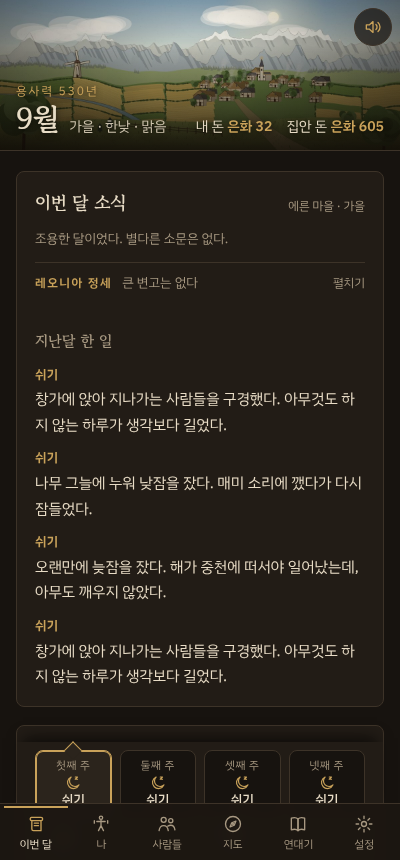
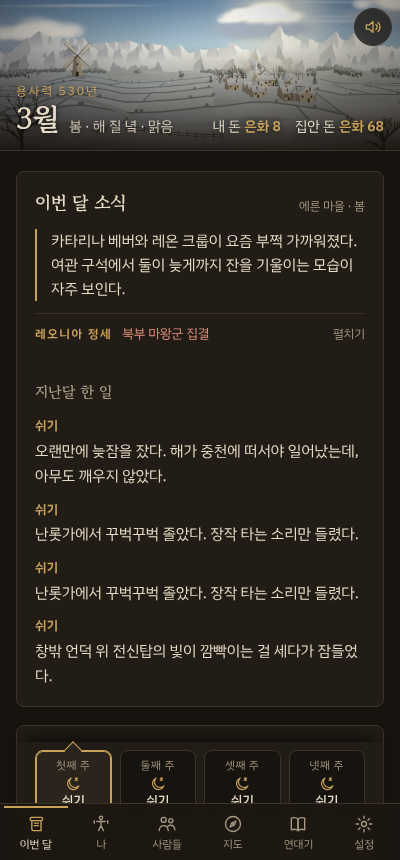
버그 패치: 감옥과 길 위가 겹칠 때 멈춤, 상황이 바뀐 뒤 뜨는 장면 오류, 깨 보기 점검 도구
Claude-Session: https://claude.ai/code/session_01Qt87VMEQ5LQWgc3497sT43

diff --git a/tools/breaktest.js b/tools/breaktest.js
@@ -1,0 +1,262 @@
+import './lsshim.js';
+import '../src/content.js';
+// 깨 보기 점검 (관계·범죄·다른 나라·종족): 겹치는 상황을 일부러 만들어 멈춤·오류·undefined·NaN을 찾는다.
+//  - 같은 달에 같은 행동을 여러 칸, 죽었거나 없는 사람을 대상으로 고르기
+//  - 장면이 뜨기 전·고르기 전에 상황 바꾸기 (대상이 죽음, 감옥, 길 위, 다른 나라로 옮겨짐, 돈 0)
+//  - 저장 → 불러오기, 예전 저장 모양(새 상태 필드가 없는 저장) 불러오기
+//  - 대 잇기 뒤에도 이어서
+// node tools/breaktest.js [판 수] [-v]
+import { newGame, endMonth, availableActions, slotsFor, playerAge, rngOf, me, knownPeople } from '../src/game.js';
+import { resolveEvent } from '../src/events.js';
+import { L, showScene } from '../src/adventure/core.js';
+import { FAMILIES } from '../src/data.js';
+import { PLACES } from '../src/places.js';
+import { crimeState, jail, CRIMES } from '../src/crime.js';
+import { autosave, load } from '../src/save.js';
+import { makeRng } from '../src/rng.js';
+import { marry } from '../src/relations.js';
+import { EVENTS } from '../src/events/core.js';
+import { run as runHooks } from '../src/hooks.js';
+import { GANGS } from '../src/underworld/gangs.js';
+import { living, ageYears } from '../src/npc.js';
+
+const RUNS = Number(process.argv[2]) || 30;
+const verbose = process.argv.includes('-v');
+const bad = (t) => typeof t === 'string' && /undefined|NaN|\[object|null|=>/.test(t);
+const problems = new Map();
+const report = (key, detail) => {
+  const k = key.slice(0, 160);
+  if (!problems.has(k)) problems.set(k, { n: 0, detail });
+  problems.get(k).n++;
+};
+const stackKey = (e) => `${e.message} @ ${(e.stack ?? '').split('\n').slice(1, 3).map((s) => s.trim().replace(/^at /, '').replace(/\(file:\/\/.*\/fantasy-life\//, '(')).join(' < ')}`;
+const scenes = {};
+const perturbs = {};
+
+// 예전 저장 모양: 뒤에 생긴 상태를 지운다
+const OLD_FIELDS = ['realms', 'races', 'crime', 'era', 'crisis', 'history'];
+function oldShape(g) {
+  for (const f of OLD_FIELDS) delete g[f];
+  const life = g.life ?? g.adventure;
+  if (life) { delete life.party; delete life.childhood; }
+  for (const p of g.people) { delete p.race; delete p.beast; delete p.memories; delete p.bond; }
+  return g;
+}
+
+const PLACE_IDS = Object.keys(PLACES).filter((p) => !PLACES[p].hidden);
+function perturb(g, rng, where) {
+  const life = L(g);
+  const kinds = ['kill', 'jail', 'travel', 'move', 'broke', 'unjail', 'age'];
+  const k = rng.pick(kinds);
+  perturbs[`${where}:${k}`] = (perturbs[`${where}:${k}`] ?? 0) + 1;
+  if (k === 'kill') {
+    const ps = knownPeople(g).filter((p) => p.alive);
+    const s = life.scene ?? life.queue[0];
+    // 장면이 붙잡고 있는 사람이 있으면 그 사람부터
+    const ids = s ? Object.values(s).filter((v) => typeof v === 'number') : [];
+    const v = ids.map((id) => g.people.find((p) => p.id === id && p.alive && !p.isPlayer)).find(Boolean) ?? rng.pick(ps);
+    if (v) { v.alive = false; v.deathYear = g.date.year; }
+  } else if (k === 'jail') { if (!crimeState(g).jailed) jail(g, rng.int(1, 6)); }
+  else if (k === 'unjail') { crimeState(g).jailed = null; }
+  else if (k === 'travel') { if (!life.travel && !crimeState(g).jailed) life.travel = { to: rng.pick(PLACE_IDS), left: rng.int(1, 3), from: life.place }; }
+  else if (k === 'move') { life.travel = null; life.place = rng.pick(PLACE_IDS); }
+  else if (k === 'broke') { g.player.money = 0; }
+  else if (k === 'age') { me(g).ageMonths += rng.int(1, 8) * 12; }
+}
+
+function check(g, where) {
+  const pe = g.pendingEvent;
+  if (pe) {
+    if (bad(pe.title) || bad(pe.text)) report(`bad scene text ${L(g).scene?.kind ?? pe.id}`, `${pe.title} | ${pe.text}`);
+    if (!Array.isArray(pe.choices) || !pe.choices.length) report(`empty choices ${L(g).scene?.kind ?? pe.id}`, where);
+    else for (const c of pe.choices) if (bad(c) || !c) report(`bad choice ${L(g).scene?.kind ?? pe.id}`, String(c));
+  }
+  const p = g.player;
+  for (const k of ['money', 'fatigue', 'stress', 'mana']) if (p[k] != null && !Number.isFinite(p[k])) report(`NaN player.${k}`, where);
+  for (const x of g.people) {
+    if (!Number.isFinite(x.affection ?? 0)) report('NaN affection', `${x.name} ${where}`);
+    if (!Number.isFinite(x.ageMonths)) report('NaN ageMonths', `${x.name} ${where}`);
+  }
+}
+
+for (let run = 0; run < RUNS; run++) {
+  const fam = FAMILIES[run % FAMILIES.length].id;
+  const seed = (Number(process.env.SEED) || 51000) + run * 7;
+  let g = newGame({ name: run % 3 ? '시험' : '아주 길고 긴 이름의 사람', sex: run % 2 ? 'm' : 'f', familyId: fam, mode: run % 2 ? 'free' : 'once', seed });
+  const side = makeRng({ s: seed * 31 + 5 });
+  let lives = 0;
+  for (let m = 0; m < 12 * 160 && !g.over; m++) {
+    const where = `run${run} ${fam} m${m} age${playerAge(g)} ${L(g).place}`;
+    try {
+      const acts = availableActions(g);
+      const slots = slotsFor(g);
+      if (slots > 0 && !acts.length) { report('no actions', `${where} travel=${JSON.stringify(L(g).travel)} jailed=${JSON.stringify(crimeState(g).jailed)}`); L(g).travel = null; crimeState(g).jailed = null; continue; }
+      const choices = [];
+      const same = side.chance(0.3) ? side.pick(acts) : null;
+      for (let i = 0; i < slots; i++) {
+        const a = same ?? side.pick(acts);
+        const c = { id: a.id };
+        if (a.needsTarget) {
+          const ps = knownPeople(g);
+          const r = side.next();
+          c.target = r < 0.1 ? 999999 : r < 0.2 ? g.player.id : (side.pick(ps)?.id ?? 999999);
+        }
+        choices.push(c);
+      }
+      // 대 잇기를 보려면 아이가 있어야 한다: 다른 종족과도 혼인시킨다
+      if (playerAge(g) >= 20 && !me(g).spouseId && side.chance(0.08)) {
+        const sp = living(g).find((p) => !p.isPlayer && !p.spouseId && p.sex !== g.player.sex && ageYears(p) >= 17 && ageYears(p) <= playerAge(g) + 10 && !g.player.familyIds.includes(p.id));
+        if (sp) { try { marry(g, sp); } catch (e) { report(stackKey(e), `marry ${where}`); } }
+      }
+      if (side.chance(0.08)) perturb(g, side, 'before');
+      endMonth(g, choices);
+      for (const r of g.lastResults ?? []) if (bad(r.text) || bad(r.name)) report(`bad result ${r.name}`, r.text);
+      for (const n of g.news ?? []) if (bad(n.text)) report('bad news', n.text);
+      check(g, where);
+      for (let k = 0; k < 6 && g.pendingEvent; k++) {
+        const kind = L(g).scene?.kind ?? g.pendingEvent.id;
+        scenes[kind] = (scenes[kind] ?? 0) + 1;
+        if (side.chance(0.1)) perturb(g, side, 'scene');
+        const idx = kind === 'heir' ? 0 : side.int(0, g.pendingEvent.choices.length - 1);
+        const out = resolveEvent(g, rngOf(g), idx);
+        if (bad(typeof out === 'string' ? out : '')) report(`bad outcome ${kind}`, String(out));
+        if (kind === 'heir') lives++;
+        check(g, where);
+      }
+      // 줄 선 장면을 상황을 바꾼 뒤 억지로 띄워 본다
+      const q = L(g).queue;
+      if (q.length && !g.pendingEvent && side.chance(0.3)) {
+        perturb(g, side, 'queued');
+        const s = q.shift();
+        if (showScene(g, s)) check(g, `${where} forced ${s.kind}`);
+      }
+      if (m % 37 === 36) {
+        autosave(g);
+        g = load('auto');
+        check(g, `${where} reload`);
+      }
+      if (m === 300 && run % 3 === 0) {
+        const raw = oldShape(JSON.parse(JSON.stringify(g)));
+        localStorage.setItem('fantasy-life:old', JSON.stringify(raw));
+        g = load('old');
+        check(g, `${where} old save`);
+      }
+    } catch (e) {
+      report(stackKey(e), where);
+      if (verbose) console.log(e);
+      // 같은 상태로 다시 터지지 않게 장면을 비우고 넘어간다
+      g.pendingEvent = null;
+      if (L(g)) { L(g).scene = null; L(g).queue = []; }
+    }
+  }
+  if (verbose) console.log(`run ${run} ${fam} 끝: 나이 ${playerAge(g)} 대 ${lives} 해 ${g.date.year} 죽음 ${me(g).deathCause ?? me(g).cause ?? ''} over=${g.over}`);
+}
+
+// 내 장면(관계·범죄·다른 나라·종족)을 이상한 상황에서 억지로 띄우고 선택지를 하나씩 고른다
+const MY_SCENES = ['arrest', 'witness_blackmail', 'thugs', 'bounty_hunters', 'gang_offer', 'gang_contract', 'gang_turf', 'gang_takeover', 'gang_rescue',
+  'border', 'caught_illegal', 'realm_office', 'realm_inquisitor', 'realm_spy', 'realm_slaves', 'realm_raid', 'realm_forbidden', 'city_story', 'race_slight', 'farewell', 'drift'];
+const STATES = ['plain', 'jailed', 'travel', 'broke', 'dead', 'old', 'child', 'heir'];
+const PLACES_TRY = ['ern', 'harfen', 'leocast', 'eisen', 'solaris', 'serenia', 'barka', 'graubel', 'silverleaf', 'hammer', 'fur', 'estella'].filter((p) => PLACES[p]);
+let forced = 0;
+for (const [si, kind] of MY_SCENES.entries()) {
+  for (const [sti, st] of STATES.entries()) {
+    for (let choice = 0; choice < 8; choice++) {
+      const seed = 70000 + si * 101 + sti * 13 + choice;
+      const famId = FAMILIES[(si + sti + choice) % FAMILIES.length].id;
+      const where = `${kind} state=${st} choice=${choice} ${famId}`;
+      let g;
+      try {
+        g = newGame({ name: '깨기', sex: choice % 2 ? 'm' : 'f', familyId: famId, mode: 'free', seed });
+        me(g).ageMonths = (st === 'child' ? 9 : 26) * 12;
+        const side = makeRng({ s: seed });
+        // 몇 달 살려서 아는 사람과 상태를 만든다
+        for (let m = 0; m < 6; m++) { endMonth(g, Array(slotsFor(g)).fill(0).map(() => ({ id: side.pick(availableActions(g).filter((a) => !a.needsTarget)).id }))); for (let k = 0; k < 4 && g.pendingEvent; k++) resolveEvent(g, rngOf(g), 0); }
+        L(g).place = side.pick(PLACES_TRY); L(g).travel = null;
+        const known = knownPeople(g).filter((p) => p.alive);
+        const v = side.pick(known) ?? g.people.find((p) => !p.isPlayer && p.alive);
+        const gangId = side.pick(Object.keys(GANGS));
+        if (st === 'jailed') jail(g, 3);
+        if (st === 'travel') L(g).travel = { to: 'harfen', left: 2, from: L(g).place };
+        if (st === 'broke') g.player.money = 0;
+        if (st === 'dead' && v) v.alive = false;
+        if (st === 'old') { localStorage.setItem('fantasy-life:old', JSON.stringify(oldShape(JSON.parse(JSON.stringify(g))))); g = load('old'); }
+        if (st === 'heir') { me(g).childIds = []; }
+        const gangScene = kind.startsWith('gang') && kind !== 'gang_contract';
+        const data = { id: gangScene ? gangId : st === 'dead' ? v?.id : side.chance(0.2) ? 999999 : v?.id, target: v?.id, pay: 40, crime: side.pick(Object.keys(CRIMES)), why: side.pick(['gang', 'blackmail']), gang: gangId,
+          total: 50, to: side.pick(['valhart', 'holy', 'serenia', 'free', 'march', 'elf', 'dwarf', 'beast', 'leonia']), back: side.pick(['ern', 'harfen', undefined]), place: side.pick(['eisen', 'solaris', 'serenia', 'barka', 'graubel', 'silverleaf', 'hammer', 'fur']), step: side.int(0, 1), line: side.int(0, 9), hunter: side.chance(0.3), n: 1 };
+        L(g).queue = []; L(g).scene = null; g.pendingEvent = null;
+        if (!showScene(g, { kind, ...data })) continue;
+        forced++;
+        check(g, where);
+        if (choice >= g.pendingEvent.choices.length) { L(g).scene = null; g.pendingEvent = null; continue; }
+        const out = resolveEvent(g, rngOf(g), choice);
+        if (bad(typeof out === 'string' ? out : '')) report(`bad outcome ${kind}`, `${where}: ${out}`);
+        // 그 뒤 몇 달 더 굴려 본다
+        for (let m = 0; m < 3 && !g.over; m++) {
+          const acts = availableActions(g);
+          if (slotsFor(g) > 0 && !acts.length) { report(`no actions after ${kind}`, where); break; }
+          endMonth(g, Array(slotsFor(g)).fill(0).map(() => ({ id: acts[0].id })));
+          for (let k = 0; k < 4 && g.pendingEvent; k++) { check(g, where); resolveEvent(g, rngOf(g), 0); }
+        }
+      } catch (e) { report(stackKey(e), where); if (verbose) console.log(e); }
+    }
+  }
+}
+console.log('억지로 띄운 장면:', forced);
+
+// 관계 사건: 사건이 뜬 뒤 고르기 전에 그 사람이 죽거나 사라지거나, 저장을 다시 불러와도 견디나
+let relForced = 0;
+const MY_EVENTS = EVENTS.filter((e) => /^(talk_|rel_)/.test(e.id));
+for (let run = 0; run < 40; run++) {
+  const g0 = newGame({ name: '관계', sex: run % 2 ? 'm' : 'f', familyId: FAMILIES[run % FAMILIES.length].id, mode: 'free', seed: 81000 + run });
+  const side = makeRng({ s: 81000 + run });
+  const ageTo = [8, 14, 19, 25, 34, 50][run % 6];
+  try {
+    while (playerAge(g0) < ageTo && !g0.over) {
+      endMonth(g0, Array(slotsFor(g0)).fill(0).map(() => { const a = side.pick(availableActions(g0)); return { id: a.id, target: knownPeople(g0)[0]?.id }; }));
+      for (let k = 0; k < 4 && g0.pendingEvent; k++) resolveEvent(g0, rngOf(g0), 0);
+    }
+  } catch (e) { report(stackKey(e), `rel grow ${run}`); continue; }
+  if (g0.over) continue;
+  const snap = JSON.stringify(g0);
+  for (const e of MY_EVENTS) {
+    for (const mode of ['plain', 'kill', 'vanish', 'reload']) {
+      const g = JSON.parse(snap);
+      runHooks('migrate', g);
+      const where = `${e.id} ${mode} run${run} age${playerAge(g)}`;
+      try {
+        if (e.id.startsWith('talk_')) {
+          const kind = e.id.slice(5);
+          const cands = knownPeople(g).filter((p) => p.alive && !p.away);
+          const p = kind === 'spouse' ? g.people.find((x) => x.id === me(g).spouseId) : side.pick(cands);
+          if (p) { g.relations ??= {}; g.relations.talk = { kind, id: p.id, at: g.date.year * 12 + g.date.month - 1 }; }
+        }
+        let ok = false;
+        try { ok = !!e.cond(g); } catch { ok = false; }
+        if (!ok) continue;
+        const ctx = e.prepare ? e.prepare(g, rngOf(g)) ?? {} : {};
+        const shown = e.choices.map((c, i) => ({ c, i })).filter(({ c }) => !c.show || c.show(g, ctx));
+        g.pendingEvent = { id: e.id, title: e.title, text: e.text(g, ctx), choices: shown.map(({ c }) => (typeof c.label === 'function' ? c.label(g, ctx) : c.label)), choiceIdx: shown.map(({ i }) => i), ctx };
+        relForced++;
+        check(g, where);
+        const ids = [...Object.values(ctx).filter((v) => typeof v === 'number'), ...knownPeople(g).map((p) => p.id)];
+        if (mode === 'kill') for (const id of ids.slice(0, 6)) { const p = g.people.find((x) => x.id === id && !x.isPlayer); if (p) { p.alive = false; } }
+        if (mode === 'vanish') g.people = g.people.filter((x) => x.isPlayer || !ids.slice(0, 6).includes(x.id));
+        let gg = g;
+        if (mode === 'reload') { localStorage.setItem('fantasy-life:rel', JSON.stringify(g)); gg = load('rel'); }
+        const idx = side.int(0, gg.pendingEvent.choices.length - 1);
+        const out = resolveEvent(gg, rngOf(gg), idx);
+        if (bad(typeof out === 'string' ? out : '')) report(`bad outcome ${e.id}`, `${where}: ${out}`);
+        endMonth(gg, Array(slotsFor(gg)).fill(0).map(() => ({ id: availableActions(gg)[0].id })));
+        check(gg, where);
+      } catch (err) { report(stackKey(err), where); if (verbose) console.log(err); }
+    }
+  }
+}
+console.log('관계 사건 억지로:', relForced);
+console.log('흔든 것:', JSON.stringify(perturbs));
+console.log('장면 수:', Object.keys(scenes).length);
+if (!problems.size) { console.log('breaktest: 통과'); process.exit(0); }
+for (const [k, v] of [...problems].sort((a, b) => b[1].n - a[1].n)) console.log(`(${v.n}) ${k}\n     ${String(v.detail).slice(0, 220)}`);
+console.log(`breaktest: 문제 ${problems.size}가지`);
+process.exit(1);

diff --git a/src/races/index.js b/src/races/index.js
@@ -261,7 +261,7 @@ defineScene('farewell', {
   text: (g, s) => {
     const p = byId(g, s.id);
     const meP = me(g);
-    const lines = [`${J(fullName(p), '이/가')} ${ageYears(p)}살로 세상을 떠났다.`];
+    const lines = [p ? `${J(fullName(p), '이/가')} ${ageYears(p)}살로 세상을 떠났다.` : '오래 알던 사람이 세상을 떠났다.'];
     if (s.n === 1) lines.push(`처음 만났을 때 그는 젊었다. 장례식에서 거울처럼 맑은 물에 비친 내 얼굴은 그때와 거의 같았다. 나는 ${ageYears(meP)}살이고, 몸은 아직 ${bodyAge(meP)}살이다.`);
     else if (s.n < 6) lines.push(`벌써 ${s.n}번째다. 장례 절차를 이제는 사제보다 내가 더 잘 안다.`);
     else lines.push(`세는 것을 그만둔 지 오래다. 마을에서 내 어린 시절을 기억하는 사람은 이제 없다.`);
@@ -279,7 +279,7 @@ defineScene('farewell', {
     if (key === 'stay') { stress(g, 6); const w = gainStat(g, 'wil', 0.8); return `사흘 밤을 무덤 곁에서 보냈다. 인간의 무덤은 금방 풀에 덮인다. 그래서 더 오래 앉아 있었다.${gains([up('의지', w)])}`; }
     if (key === 'write') {
       const k = gainSkill(g, 'letters', 1.5, 'int');
-      chron(g, `${g.player.name}, 먼저 간 벗 ${fullName(p)}의 이야기를 글로 남기다.`);
+      chron(g, `${g.player.name}, 먼저 간 벗${p ? ` ${fullName(p)}` : ''}의 이야기를 글로 남기다.`);
       return `밤새 그가 했던 말과 웃던 얼굴을 적었다. 백 년 뒤에도 누군가는 읽을 것이다. 나는 그때도 살아 있을 것이고.${gains([up('글과 학문', k)])}`;
     }
     if (key === 'aloof') { R.aloof = true; stress(g, -10); return '마음 한쪽의 문을 닫았다. 덜 아플 것이다. 대신 덜 따뜻할 것이다. 엘프들이 왜 그렇게 차가운지 이제 조금 알 것 같았다.'; }

diff --git a/src/realms/index.js b/src/realms/index.js
@@ -328,7 +328,7 @@ HOOKS.afterMonth.push((g, rng) => {
 defineScene('caught_illegal', {
   title: () => '밀입국자',
   text: (g) => `${REALMS[currentRealm(g)].law.watch ?? '경비대'}의 손이 어깨에 얹혔다. "얼굴이 낯익은데. 쫓겨난 놈이 왜 아직 여기 있지?"`,
-  choices: () => [{ label: '순순히 따라간다', key: 'go' }, { label: '달아난다', key: 'run' }],
+  choices: (g) => (REALMS[currentRealm(g)] && RS(g).illegal[currentRealm(g)] && !isJailed(g) ? [{ label: '순순히 따라간다', key: 'go' }, { label: '달아난다', key: 'run' }] : []),
   resolve(g, rng, s, key) {
     const R = RS(g);
     const realm = currentRealm(g);
@@ -408,6 +408,7 @@ defineScene('realm_office', {
     const r = REALMS[realm];
     const R = RS(g);
     const out = [];
+    if (!r || traveling(g) || isJailed(g)) return out; // 관청이 없는 땅이거나 길 위·감옥
     if (!naturalizeBlock(g, realm)) out.push({ label: `귀화를 신청한다 (은화 ${r.naturalize.fee}닢)`, key: 'naturalize' });
     if (r.naturalize.buy && !bannedLeft(g, realm)) out.push({ label: `시민권을 산다 (은화 ${r.naturalize.buy}닢)`, key: 'buy' });
     if (homeTrouble(g) && R.asylum !== realm) out.push({ label: `망명을 청한다 (${realmShort(R.citizen)}에 쫓기는 몸이다)`, key: 'asylum' });
@@ -418,7 +419,7 @@ defineScene('realm_office', {
     const realm = currentRealm(g);
     const r = REALMS[realm];
     const R = RS(g);
-    if (key === 'leave') return '서류 더미와 긴 줄을 보고 발길을 돌렸다.';
+    if (key === 'leave' || !r) return '서류 더미와 긴 줄을 보고 발길을 돌렸다.';
     if (key === 'naturalize') {
       if (naturalizeBlock(g, realm)) return '서기가 서류를 밀어냈다. 조건이 모자랐다.';
       g.player.money -= r.naturalize.fee;

diff --git a/src/realms/life.js b/src/realms/life.js
@@ -11,6 +11,7 @@ import { FOES } from '../adventure/combat.js';
 import { queueFight } from '../adventure/fight.js';
 import { registerJob, WORK, takeJob } from '../jobs.js';
 import { remember } from '../relations.js';
+import { makeRng } from '../rng.js';
 import { isJailed, jail, addNotoriety, craftOf, reportCrime } from '../crime.js';
 import { REALMS, realmOf, realmState, realmPersonName, meetLocal, localBy, treatmentIn } from './index.js';
 import { setRace, raceOf, playerRace } from '../races/index.js';
@@ -23,6 +24,7 @@ const here = (g) => L(g).place;
 // game.realms.stories[장소] = { step, at(다음 장면이 올 수 있는 달), done, npc(사람 id), mark(갈래 표시) }
 const S = (g) => (RS(g).stories ??= {});
 function storyNpc(g, rng, place) {
+  rng ??= makeRng({ s: ((g.rngState?.s ?? 1) * 2654435761 + place.length * 977) >>> 0 }); // 화면이 글을 먼저 그릴 때도 같은 사람이 나오게
   const st = S(g)[place] ??= { step: 0, at: 0 };
   let p = st.npc != null ? byId(g, st.npc) : null;
   if (p) return p;
@@ -63,7 +65,8 @@ HOOKS.afterMonth.push((g, rng) => {
 defineScene('city_story', {
   title: (g, s) => STORIES[s.place].steps[s.step].title,
   text: (g, s) => STORIES[s.place].steps[s.step].text(g, storyNpc(g, null, s.place)),
-  choices: (g, s) => STORIES[s.place].steps[s.step].choices.filter((c) => !c.when || c.when(g, storyNpc(g, null, s.place))),
+  // 그 고장을 떠났으면 장면을 미룬다 (돌아오면 다시 온다)
+  choices: (g, s) => (here(g) !== s.place || !STORIES[s.place]?.steps[s.step] ? [] : STORIES[s.place].steps[s.step].choices).filter((c) => !c.when || c.when(g, storyNpc(g, null, s.place))),
   resolve(g, rng, s, key) {
     const st = S(g)[s.place];
     const p = storyNpc(g, rng, s.place);

diff --git a/src/places.js b/src/places.js
@@ -151,7 +151,8 @@ const ERN_ONLY = new Set(['play', 'help_home', 'study', 'sword_father', 'sword_g
 const ON_ROAD = new Set(['rest', 'meditate', 'train_body', 'on_road']);
 HOOKS.actionFilter.push((g, a) => {
   const life = L(g);
-  if (life.travel) return ON_ROAD.has(a.id);
+  // 감옥에 갇혔으면 길은 끝났다 (감옥 행동은 crime.js가 거른다)
+  if (life.travel && !g.crime?.jailed) return ON_ROAD.has(a.id);
   if (a.place && !a.place.includes(life.place)) return false;
   if (ERN_ONLY.has(a.id) && life.place !== 'ern') return false;
   if (a.id === 'help_home' && life.home !== 'family') return false;
@@ -240,6 +241,7 @@ ACTIONS.push({
 // 매달: 길 위의 진행, 도착, 노숙/집세
 HOOKS.afterActions.push((g, rng, results) => {
   const life = L(g);
+  if (life.travel && g.crime?.jailed) life.travel = null; // 길 떠나기 전에 붙잡혔다
   if (life.travel) {
     life.travel.left -= 1;
     if (life.travel.left <= 0) arrive(g, rng, results);

diff --git a/src/crime.js b/src/crime.js
@@ -696,7 +696,7 @@ function gallows(g) {
 // ---------- 목격자의 협박, 앙갚음하는 무리 ----------
 defineScene('witness_blackmail', {
   title: () => '보았다는 사람',
-  text: (g, s) => T.WB_TEXT(byId(g, s.id), CRIMES[s.crime].name),
+  text: (g, s) => (byId(g, s.id)?.alive ? T.WB_TEXT(byId(g, s.id), CRIMES[s.crime]?.name ?? '죄') : '나를 보았다던 사람의 소식이 끊겼다.'),
   choices: (g, s) => {
     const w = byId(g, s.id);
     if (!w?.alive) return [{ label: '…', key: 'gone' }];
@@ -730,7 +730,7 @@ defineScene('witness_blackmail', {
     return T.WB_DARE(w, watchName(g));
   },
 });
-const wbCost = (g, s) => Math.round(8 + CRIMES[s.crime].sev * 6);
+const wbCost = (g, s) => Math.round(8 + (CRIMES[s.crime]?.sev ?? 1) * 6);
 
 defineScene('thugs', {
   title: () => '골목의 사내들',

diff --git a/src/underworld/gangs.js b/src/underworld/gangs.js
@@ -233,6 +233,7 @@ defineScene('gang_contract', {
     const v = byId(g, s.target);
     const c = C(g);
     if (!v || !v.alive) return '쪽지의 이름은 이미 다른 누군가가 지웠다.';
+    if (!c.gang) return '봉투를 건넨 조직과는 이미 연이 끊겼다. 쪽지는 불에 태웠다.';
     if (key === 'no') { c.gang.rep = Math.max(0, c.gang.rep - 8); return '봉투를 밀어냈다. 간부는 말없이 봉투를 거둬 갔다. 다른 누군가가 맡을 것이다. 내 신임은 조금 깎였다.'; }
     if (key === 'warn') {
       v.away = true; v.known = true;

diff --git a/src/relations.js b/src/relations.js
@@ -208,7 +208,7 @@ function talkTarget(g, kind) {
   const p = byId(g, t.id);
   return p && p.alive && !p.away ? p : null;
 }
-const curTalk = (g) => byId(g, g.relations?.talk?.id);
+const curTalk = (g) => { const p = byId(g, g.relations?.talk?.id); return p?.alive ? p : null; };
 const endTalk = (g) => { relState(g).talk = null; };
 
 // 대화 장면의 첫 문단: 장소 + 상대의 기색 + (가끔) 기억 꺼내기
